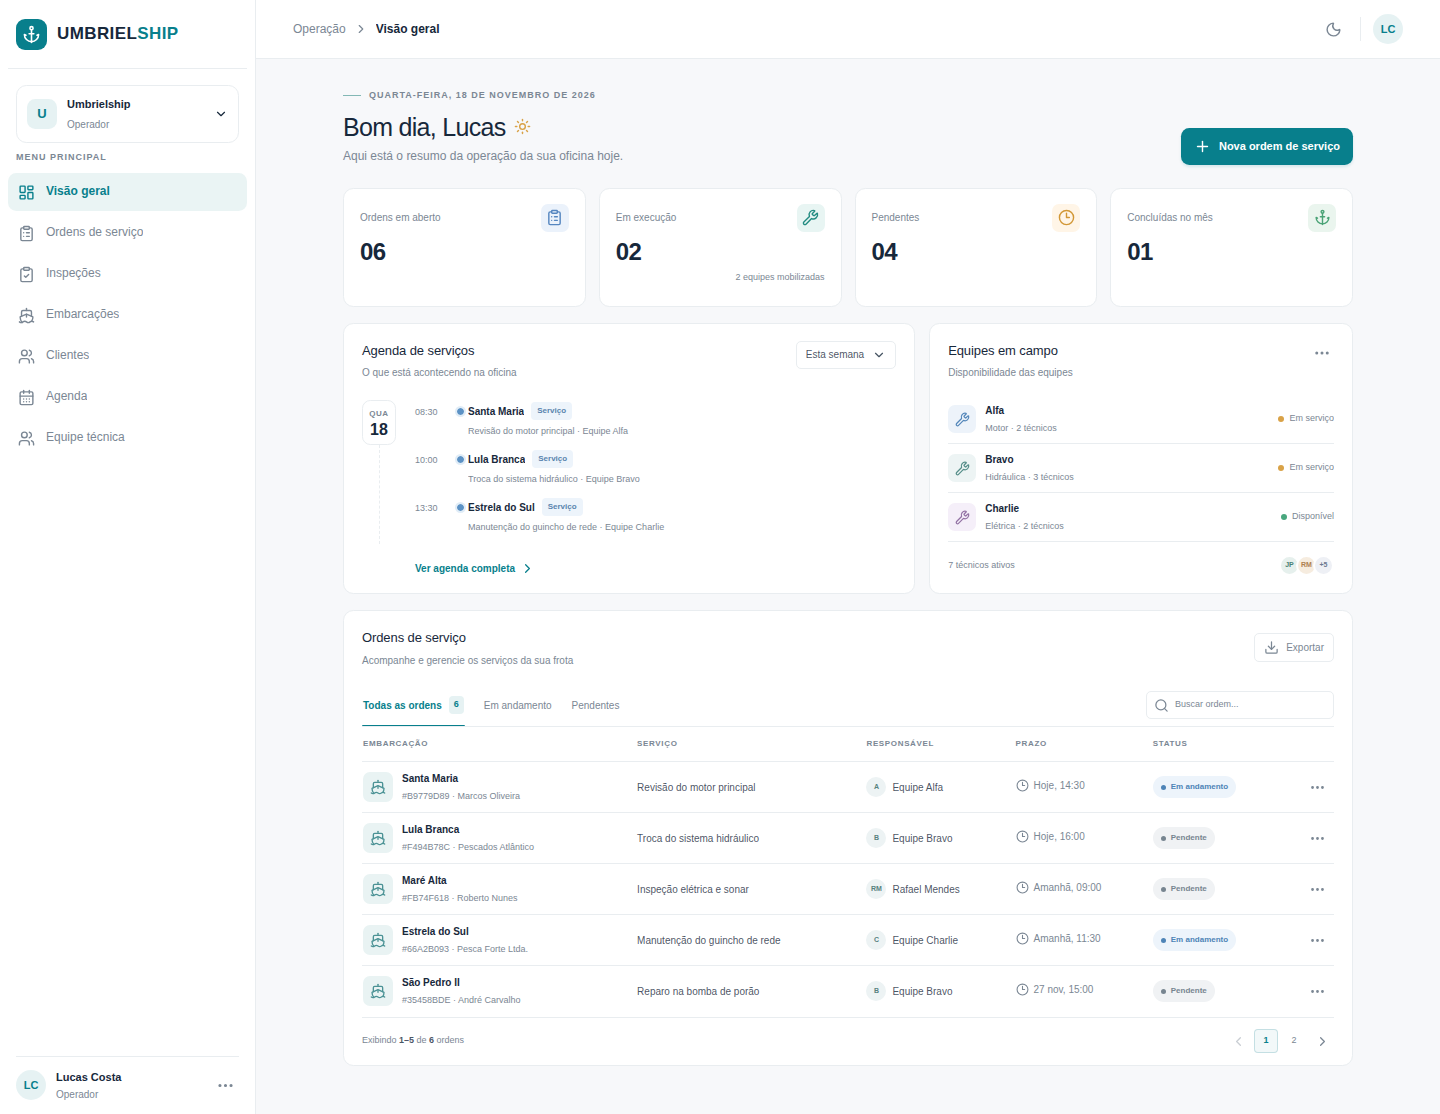
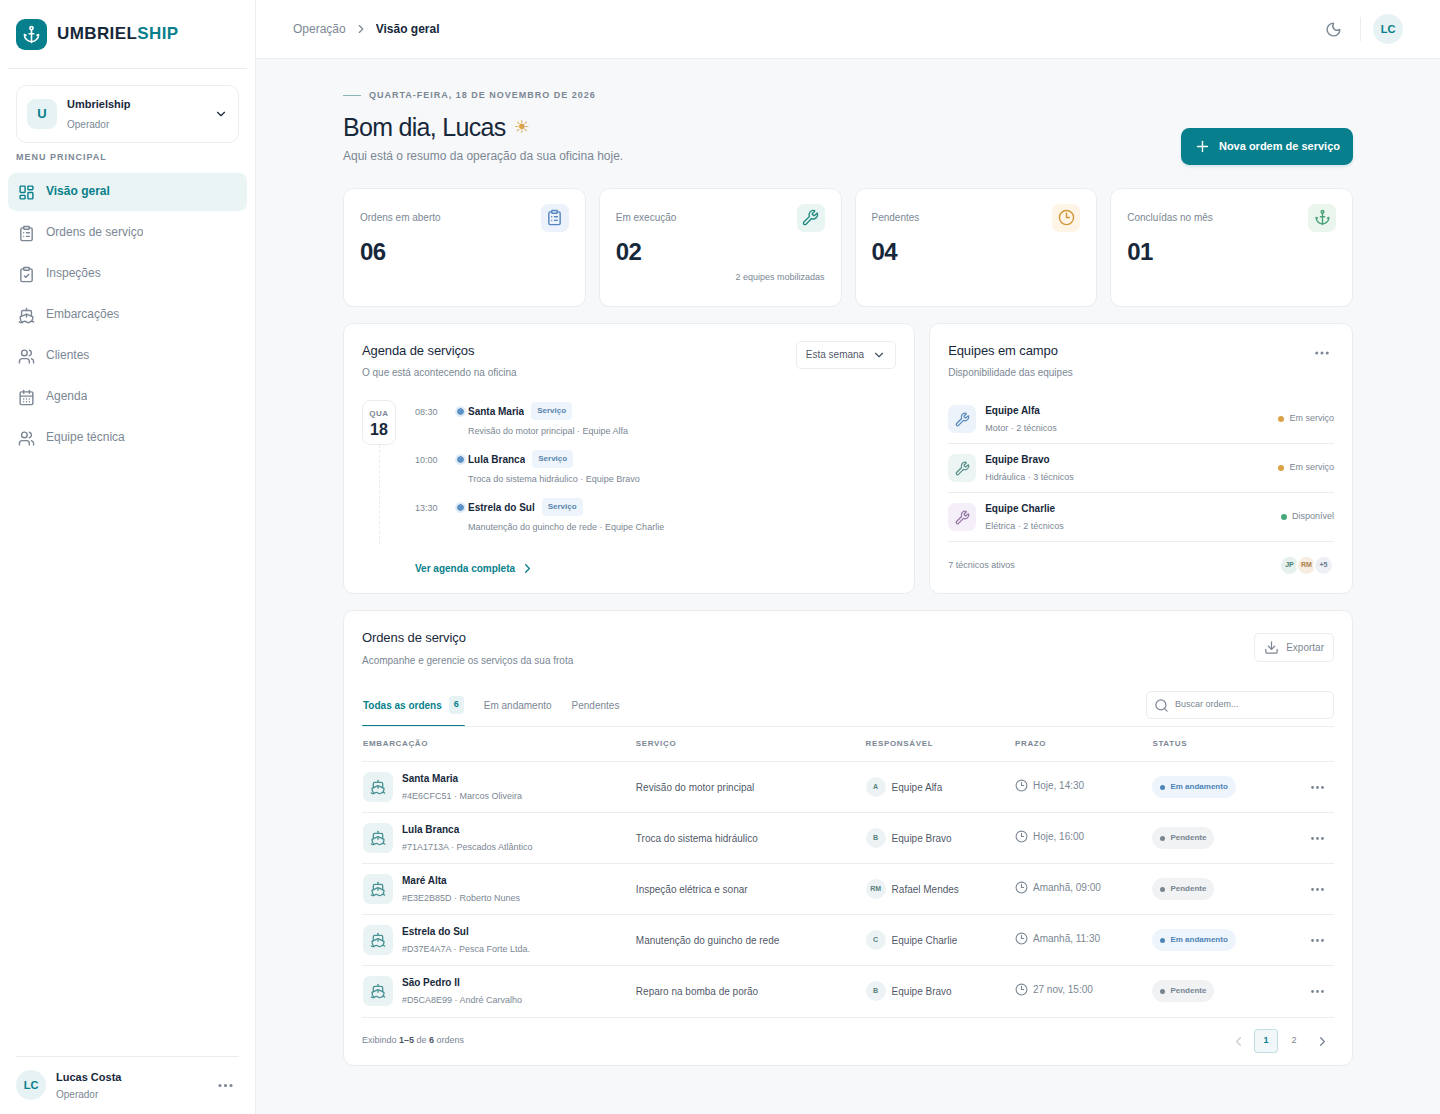
docs(specs): retake the dashboard pictures at a74601e and close the findings

diff --git a/.specs/features/dashboard-redesign/checks.md b/.specs/features/dashboard-redesign/checks.md
@@ -158,7 +158,7 @@ Proof: run web | ✓ dashboard.spec.ts > Dashboard > dashboard C27 shows every o
 ## Handoff
 
 - **Settled mid-build:** after the Verifier's findings 2-4, to "Como o painel deve escrever o nome da equipe?" the user answered "\"Equipe <nome>\" (Recomendado)" (AD-093, AC 10 and C10 restated, their tests changed with them); to "Qual nome usar?" for the row menu, "\"Ações para <#código>\" (Recomendado)" (AD-094, a row in `## Differences from the source`); to "Qual total mostrar?" for the orders footer, "Total da aba e da busca (Recomendado)" (AD-095, a row in `## Differences from the source`, AC 14 says so)
-- **Dispatched:** at `96e4288` (diff `334e15a..96e4288`, `proofs.md` at `96e4288`, 47 pass and the 5 pictures awaiting judgement, taken at `6bd121d`, the last code commit): the Verifier (fresh sub-agent) - returned, FAIL with 5 findings (repeated load-error toasts, three departures from the captures with no Differences row, two rules with no check); screens round 1 (fresh sub-agent, the 5 pictures against their captures) - returned, all 5 diverge on 3 faults: the greeting's sun drawn as an outline (5 pictures), a rule under the column headers of the empty table, the page controls not boxed in the dark theme
-- **Boundary:** C1-C26 closed at `6bd121d` (`3a1d6e5` the build, `6bd121d` two fixes the walk found)
+- **Dispatched:** at `96e4288` (diff `334e15a..96e4288`, `proofs.md` at `96e4288`, 47 pass and the 5 pictures awaiting judgement, taken at `6bd121d`, the last code commit): the Verifier (fresh sub-agent) - returned, FAIL with 5 findings (repeated load-error toasts, three departures from the captures with no Differences row, two rules with no check); screens round 1 (fresh sub-agent, the 5 pictures against their captures) - returned, all 5 diverge on 3 faults: the greeting's sun drawn as an outline (5 pictures), a rule under the column headers of the empty table, the page controls not boxed in the dark theme; fix pass at `a74601e` (the Verifier's 5 findings, AD-093 to AD-095 settled by the user, C27 appended, the 3 screens faults), every picture retaken at `a74601e`; screens round 2 (the round-1 screens sub-agent resumed) at `a74601e`
+- **Boundary:** C1-C26 closed at `6bd121d` (`3a1d6e5` the build, `6bd121d` two fixes the walk found); the Verifier's 5 findings and the screens round-1 rows closed at `a74601e` (C27 appended)
 - **Abandoned:** none. The `Run web` line is run with `VITEST_MAX_WORKERS=4` in the environment: on this machine (14 GB, swap full, the user's `ng serve` and API in watch on 4200 and 3333) the default 19 workers ran out of memory twice and 31-35 tests of every module timed out at 5 s and cascaded through `TestBed`; with 4 workers the same command passes 403 of 403 in 5 s. The variable only limits Vitest's parallelism; the command and the tests are the project's own
-- **Walked:** at `3a1d6e5`, then the pictures again at `6bd121d`, on an isolated stack started for the walk (PostgreSQL, Redis and Mailpit in new containers `dash-walk-pg`, `dash-walk-redis`, `dash-walk-mailpit` on ports 55800, 56800, 51800/58800; the API built from this checkout on 3337; the web production build served on 4303 by a small static server with the dev proxy's rules), seeded through the API with fictional data only, in the week of Monday 16 November 2026 (the walk ran on Wednesday 18 at 08:45, -03): the Teams "Alfa" (Motor), "Bravo" (Hidráulica) and "Charlie" (Elétrica) with 2, 3 and 2 of seven professionals; five Customers and Vessels after the capture's (Santa Maria, Lula Branca, Maré Alta, Estrela do Sul, São Pedro II); six open WorkOrders and one completed on 6 November - Santa Maria in progress until today 14:30 with "Revisão do motor principal" (Alfa, in progress) at 08:30, Lula Branca pending until 16:00 with "Troca do sistema hidráulico" (Bravo, in progress) at 10:00, Maré Alta pending until tomorrow 09:00 with "Inspeção elétrica e sonar" (Rafael Mendes), Estrela do Sul in progress until tomorrow 11:30 with "Manutenção do guincho de rede" (Charlie, pending) at 13:30, São Pedro II and a second Lula Branca next week; the operator "Lucas Costa" and the inspector "Camila Rocha". Headless Chrome (Playwright on `/usr/bin/google-chrome`, the session token in `localStorage`, light theme unless dark) saved each picture at its capture's size, full page: C1 `captures/dashboard.running.png` (1440x1114, operator: "Bom dia, Lucas", "QUARTA-FEIRA, 18 DE NOVEMBRO DE 2026", cards 06 / 02 with "2 equipes mobilizadas" / 04 / 01, QUA 18 with the three services and their Teams, Alfa and Bravo "Em serviço", Charlie "Disponível", "7 técnicos ativos" JP RM +5, five rows of six with "Equipe Alfa", "Equipe Bravo", "Rafael Mendes", "Equipe Charlie"), C6 `captures/dashboard-period-today.running.png` (the period button once: "Hoje", today's five items), C15 `captures/dashboard-tab-em-andamento.running.png` (1440x1000, Santa Maria and Estrela do Sul) and `captures/dashboard-search-empty.running.png` (1440x1000, "zzz": "Nenhuma ordem encontrada."), C25 `captures/dashboard-dark.running.png` (1440x1114, dark). The flows, with clicks and typing: `/` landed on `/dashboard` (C1); the Agenda list measured `scrollHeight` 384 over `clientHeight` 144 and the panel 271.5 px on "Esta semana" and on "Hoje" (C7); the first Agenda item opened `/work-orders/<Santa Maria>` (C8), "Ver agenda completa" `/agenda` (C9), the Teams' "Mais opções" `/staff?tab=equipes` (C13); the tabs read "Todas as ordens 6", "Em andamento", "Pendentes", the pages "Exibindo 1–5 de 6 ordens" then "Exibindo 6–6 de 6 ordens", "Pendentes" "Exibindo 1–4 de 4 ordens" (C14); "Exportar" downloaded `ordens-de-servico.csv` of 7 lines (C20); as the administrator, "Editar" on Santa Maria showed its service's Responsável "Alfa", changed to "Charlie" and saved ("Ordem atualizada com sucesso"): the row read "Equipe Charlie", Alfa turned "Disponível" and Charlie "Em serviço", the note stayed "2 equipes mobilizadas" (C18); "Excluir" with "Confirmar" on the second Lula Branca took "Todas as ordens" from 6 to 5 ("Ordem de serviço excluída com sucesso", C19); "Nova ordem de serviço" opened with no Vessel chosen and created one on Maré Alta with "Limpeza do casco" for Bravo ("Ordem de serviço criada com sucesso"): the cards read 06 / 02 / 04 / 01 and the Agenda "Limpeza do casco · Equipe Bravo" (C21); the row menu read "Ver detalhes Editar Excluir" for the administrator and the operator and "Ver detalhes" for the inspector, the operator's drawer had no "Responsável", the inspector had no "Nova ordem de serviço", and both read the same Responsáveis (C17, C21, C22); with two more Teams the Teams list measured `scrollHeight` 245 over `clientHeight` 147 (C10); in the dark theme a card value, a Vessel name, an Agenda item's Vessel and a Team name each read `rgb(229,237,244)` on `rgb(20,30,41)`, 14.23:1 (C25); at 640, 768, 1024, 1280 and 1536 px `scrollWidth` equals `innerWidth`; at 640 and 768 the cards take two rows and the panels stack Agenda (y 446 / 464), Equipes (717 / 735), Ordens (1005 / 1023); from 1024 the cards take one row and Agenda and Equipes share y 323 (C26). A user reaches the states from the sidebar "Visão geral" (or `/`), the period button, a tab, the search, a row's "Ações para #…", "Nova ordem de serviço" and the theme button. Seen in the walk and fixed at `6bd121d`: the greeting's sun was drawn in the text colour (the icon took no colour from its own class), and a fourth Agenda item showed cut at the bottom of the list; every picture was retaken after the fix. The stack was stopped and its containers removed after the walk
+- **Walked:** at `3a1d6e5`, then the pictures again at `6bd121d`, on an isolated stack started for the walk (PostgreSQL, Redis and Mailpit in new containers `dash-walk-pg`, `dash-walk-redis`, `dash-walk-mailpit` on ports 55800, 56800, 51800/58800; the API built from this checkout on 3337; the web production build served on 4303 by a small static server with the dev proxy's rules), seeded through the API with fictional data only, in the week of Monday 16 November 2026 (the walk ran on Wednesday 18 at 08:45, -03): the Teams "Alfa" (Motor), "Bravo" (Hidráulica) and "Charlie" (Elétrica) with 2, 3 and 2 of seven professionals; five Customers and Vessels after the capture's (Santa Maria, Lula Branca, Maré Alta, Estrela do Sul, São Pedro II); six open WorkOrders and one completed on 6 November - Santa Maria in progress until today 14:30 with "Revisão do motor principal" (Alfa, in progress) at 08:30, Lula Branca pending until 16:00 with "Troca do sistema hidráulico" (Bravo, in progress) at 10:00, Maré Alta pending until tomorrow 09:00 with "Inspeção elétrica e sonar" (Rafael Mendes), Estrela do Sul in progress until tomorrow 11:30 with "Manutenção do guincho de rede" (Charlie, pending) at 13:30, São Pedro II and a second Lula Branca next week; the operator "Lucas Costa" and the inspector "Camila Rocha". Headless Chrome (Playwright on `/usr/bin/google-chrome`, the session token in `localStorage`, light theme unless dark) saved each picture at its capture's size, full page: C1 `captures/dashboard.running.png` (1440x1114, operator: "Bom dia, Lucas", "QUARTA-FEIRA, 18 DE NOVEMBRO DE 2026", cards 06 / 02 with "2 equipes mobilizadas" / 04 / 01, QUA 18 with the three services and their Teams, Alfa and Bravo "Em serviço", Charlie "Disponível", "7 técnicos ativos" JP RM +5, five rows of six with "Equipe Alfa", "Equipe Bravo", "Rafael Mendes", "Equipe Charlie"), C6 `captures/dashboard-period-today.running.png` (the period button once: "Hoje", today's five items), C15 `captures/dashboard-tab-em-andamento.running.png` (1440x1000, Santa Maria and Estrela do Sul) and `captures/dashboard-search-empty.running.png` (1440x1000, "zzz": "Nenhuma ordem encontrada."), C25 `captures/dashboard-dark.running.png` (1440x1114, dark). The flows, with clicks and typing: `/` landed on `/dashboard` (C1); the Agenda list measured `scrollHeight` 384 over `clientHeight` 144 and the panel 271.5 px on "Esta semana" and on "Hoje" (C7); the first Agenda item opened `/work-orders/<Santa Maria>` (C8), "Ver agenda completa" `/agenda` (C9), the Teams' "Mais opções" `/staff?tab=equipes` (C13); the tabs read "Todas as ordens 6", "Em andamento", "Pendentes", the pages "Exibindo 1–5 de 6 ordens" then "Exibindo 6–6 de 6 ordens", "Pendentes" "Exibindo 1–4 de 4 ordens" (C14); "Exportar" downloaded `ordens-de-servico.csv` of 7 lines (C20); as the administrator, "Editar" on Santa Maria showed its service's Responsável "Alfa", changed to "Charlie" and saved ("Ordem atualizada com sucesso"): the row read "Equipe Charlie", Alfa turned "Disponível" and Charlie "Em serviço", the note stayed "2 equipes mobilizadas" (C18); "Excluir" with "Confirmar" on the second Lula Branca took "Todas as ordens" from 6 to 5 ("Ordem de serviço excluída com sucesso", C19); "Nova ordem de serviço" opened with no Vessel chosen and created one on Maré Alta with "Limpeza do casco" for Bravo ("Ordem de serviço criada com sucesso"): the cards read 06 / 02 / 04 / 01 and the Agenda "Limpeza do casco · Equipe Bravo" (C21); the row menu read "Ver detalhes Editar Excluir" for the administrator and the operator and "Ver detalhes" for the inspector, the operator's drawer had no "Responsável", the inspector had no "Nova ordem de serviço", and both read the same Responsáveis (C17, C21, C22); with two more Teams the Teams list measured `scrollHeight` 245 over `clientHeight` 147 (C10); in the dark theme a card value, a Vessel name, an Agenda item's Vessel and a Team name each read `rgb(229,237,244)` on `rgb(20,30,41)`, 14.23:1 (C25); at 640, 768, 1024, 1280 and 1536 px `scrollWidth` equals `innerWidth`; at 640 and 768 the cards take two rows and the panels stack Agenda (y 446 / 464), Equipes (717 / 735), Ordens (1005 / 1023); from 1024 the cards take one row and Agenda and Equipes share y 323 (C26). A user reaches the states from the sidebar "Visão geral" (or `/`), the period button, a tab, the search, a row's "Ações para #…", "Nova ordem de serviço" and the theme button. Seen in the walk and fixed at `6bd121d`: the greeting's sun was drawn in the text colour (the icon took no colour from its own class), and a fourth Agenda item showed cut at the bottom of the list; every picture was retaken after the fix. The stack was stopped and its containers removed after the walk. After the fix pass (`a74601e`): the stack started again the same way on the same seed, every picture retaken at its capture's size with the same script on Wednesday 18 at 09:18 - the sun beside "Bom dia, Lucas" is the filled amber glyph, the Teams read "Equipe Alfa", "Equipe Bravo", "Equipe Charlie", the empty search draws no rule under the column headers, the dark page controls are boxed; the contrast reads 14.23:1 again; the stack was stopped and removed

diff --git a/.specs/features/dashboard-redesign/verification.md b/.specs/features/dashboard-redesign/verification.md
@@ -43,8 +43,8 @@ Run at `HEAD` as a throwaway spec (deleted): the week on a Sunday (Monday 16 00:
 
 | Finding | Evidence | Fix | Closed |
 | --- | --- | --- | --- |
-| A failed load toasts once per failing read and repeats earlier failures: with the API unreachable "Visão geral" raises 6 toasts (six reads failing in one tick) or 21 (failing one after another); AC 23 says one toast, and C23's test never fails more than one read | `dashboard.ts:248-266` - the effect toasts every resource whose `error()` is set on each run, and any new error re-runs it; throwaway at `HEAD`: vessels then assignments failing -> 3 `toast.error` calls ("Embarcação não encontrada." twice), six at once -> 6, six in turn -> 21; `dashboard.spec.ts:819-857` flushes one failure per page | toast only when the page goes from no failed read to one (a `computed` boolean over the six `error()`s, the first error's message read in `untracked`), and add to C23's test the six reads failing in one tick and in turn, expecting exactly one `toast.error` | |
-| "Equipes em campo" names a Team "Alfa" where the binding `dashboard.png` draws "Equipe Alfa" - the label the capture also uses in its table, and the one this page writes for the same Team in "RESPONSÁVEL" and the Agenda line; `## Differences from the source` does not list it | `captures/dashboard.aria.yml:39-43` (`strong: Equipe Alfa`, `strong: Equipe Charlie`); plan AC 10 example (`→ "Alfa"`); `dashboard-summary.ts:148` (`name: team.name`); C10's tests at `dashboard-summary.spec.ts:245-250` and `dashboard.spec.ts:287-291` | write "Equipe <nome>" in the Team row and correct AC 10's example and C10's tests, or add the departure to `## Differences from the source` with the user's confirmation | |
-| The row menu is "Ações para <#code>" where the binding `dashboard.aria.yml` names it "Mais opções para <Vessel>"; AC 17 and C17 fix the product's label and `## Differences from the source` does not list it | `captures/dashboard.aria.yml:75-76` (`button "Mais opções para Santa Maria"`); plan AC 17; `open-orders-table.ts:132`; `dashboard.harness.ts:368` | add the departure to `## Differences from the source` with the user's confirmation (a `#` code is unique per row where a Vessel name repeats, as the WorkOrder list does), or label the trigger as the capture does | |
-| "Exibindo … de <n> ordens" counts the rows of the tab and search, where `dashboard-tab-em-andamento.png` draws "Exibindo 1–2 de 24 ordens" and `dashboard-search-empty.png` "Exibindo 0–0 de 24 ordens" (every order); AC 14's "Exibindo 1–3 de 3 ordens" on "Pendentes" contradicts both, and `## Differences from the source` lists only the page buttons (AD-044), not the total | the two captures' footers; plan AC 14 example; `dashboard.ts:234` (`rangeLabel(this.filtered().length, …)`); `dashboard.spec.ts:341,345` | add the departure to `## Differences from the source` with the user's confirmation (the WorkOrder list counts the filtered rows), or count every open WorkOrder in the total as the captures do | |
-| Two rules the diff wrote have no check: the page falls back to the last page left when a delete or an edit that closes an order empties it (`dashboard.ts:231-233`; without it, deleting the only row of page 2 shows an empty table and "Exibindo 6–5 de 5 ordens"), and a create resets the tab, the search and the page (`dashboard.ts:352-354`) | no test in `dashboard.spec.ts` writes from a page past the first or from a tab other than "Todas as ordens"; throwaway at `HEAD`: 6 open, page 2, delete #00000006 -> page 1, "Exibindo 1–5 de 5 ordens" (holds today, unguarded) | add the delete-on-the-last-page case to C19's test and a create from "Pendentes" with a search to C21's | |
+| A failed load toasts once per failing read and repeats earlier failures: with the API unreachable "Visão geral" raises 6 toasts (six reads failing in one tick) or 21 (failing one after another); AC 23 says one toast, and C23's test never fails more than one read | `dashboard.ts:248-266` - the effect toasts every resource whose `error()` is set on each run, and any new error re-runs it; throwaway at `HEAD`: vessels then assignments failing -> 3 `toast.error` calls ("Embarcação não encontrada." twice), six at once -> 6, six in turn -> 21; `dashboard.spec.ts:819-857` flushes one failure per page | toast only when the page goes from no failed read to one (a `computed` boolean over the six `error()`s, the first error's message read in `untracked`), and add to C23's test the six reads failing in one tick and in turn, expecting exactly one `toast.error` | `a74601e` - one toast once any read fails (`dashboard.ts` `failed`); C23 now also proves six reads failing at once, one after another and two of six in turn (`dashboard C23 toasts once when several reads fail at once or one after another`) |
+| "Equipes em campo" names a Team "Alfa" where the binding `dashboard.png` draws "Equipe Alfa" - the label the capture also uses in its table, and the one this page writes for the same Team in "RESPONSÁVEL" and the Agenda line; `## Differences from the source` does not list it | `captures/dashboard.aria.yml:39-43` (`strong: Equipe Alfa`, `strong: Equipe Charlie`); plan AC 10 example (`→ "Alfa"`); `dashboard-summary.ts:148` (`name: team.name`); C10's tests at `dashboard-summary.spec.ts:245-250` and `dashboard.spec.ts:287-291` | write "Equipe <nome>" in the Team row and correct AC 10's example and C10's tests, or add the departure to `## Differences from the source` with the user's confirmation | `a74601e` - the user chose "Equipe <nome>" (AD-093); AC 10 and C10 restated, `teamRows` writes "Equipe <nome>" and C10's tests assert it |
+| The row menu is "Ações para <#code>" where the binding `dashboard.aria.yml` names it "Mais opções para <Vessel>"; AC 17 and C17 fix the product's label and `## Differences from the source` does not list it | `captures/dashboard.aria.yml:75-76` (`button "Mais opções para Santa Maria"`); plan AC 17; `open-orders-table.ts:132`; `dashboard.harness.ts:368` | add the departure to `## Differences from the source` with the user's confirmation (a `#` code is unique per row where a Vessel name repeats, as the WorkOrder list does), or label the trigger as the capture does | `a74601e` - the user kept "Ações para <#code>" (AD-094); the departure is a row of `## Differences from the source`; C17 proves it |
+| "Exibindo … de <n> ordens" counts the rows of the tab and search, where `dashboard-tab-em-andamento.png` draws "Exibindo 1–2 de 24 ordens" and `dashboard-search-empty.png` "Exibindo 0–0 de 24 ordens" (every order); AC 14's "Exibindo 1–3 de 3 ordens" on "Pendentes" contradicts both, and `## Differences from the source` lists only the page buttons (AD-044), not the total | the two captures' footers; plan AC 14 example; `dashboard.ts:234` (`rangeLabel(this.filtered().length, …)`); `dashboard.spec.ts:341,345` | add the departure to `## Differences from the source` with the user's confirmation (the WorkOrder list counts the filtered rows), or count every open WorkOrder in the total as the captures do | `a74601e` - the user kept the total of the tab and the search (AD-095); the departure is a row of `## Differences from the source` and AC 14 says so; C14 proves it |
+| Two rules the diff wrote have no check: the page falls back to the last page left when a delete or an edit that closes an order empties it (`dashboard.ts:231-233`; without it, deleting the only row of page 2 shows an empty table and "Exibindo 6–5 de 5 ordens"), and a create resets the tab, the search and the page (`dashboard.ts:352-354`) | no test in `dashboard.spec.ts` writes from a page past the first or from a tab other than "Todas as ordens"; throwaway at `HEAD`: 6 open, page 2, delete #00000006 -> page 1, "Exibindo 1–5 de 5 ordens" (holds today, unguarded) | add the delete-on-the-last-page case to C19's test and a create from "Pendentes" with a search to C21's | `a74601e` - C27 appended: `dashboard C27 falls back to the last page left after a delete or an edit` and `dashboard C27 shows every open order after a create` |
